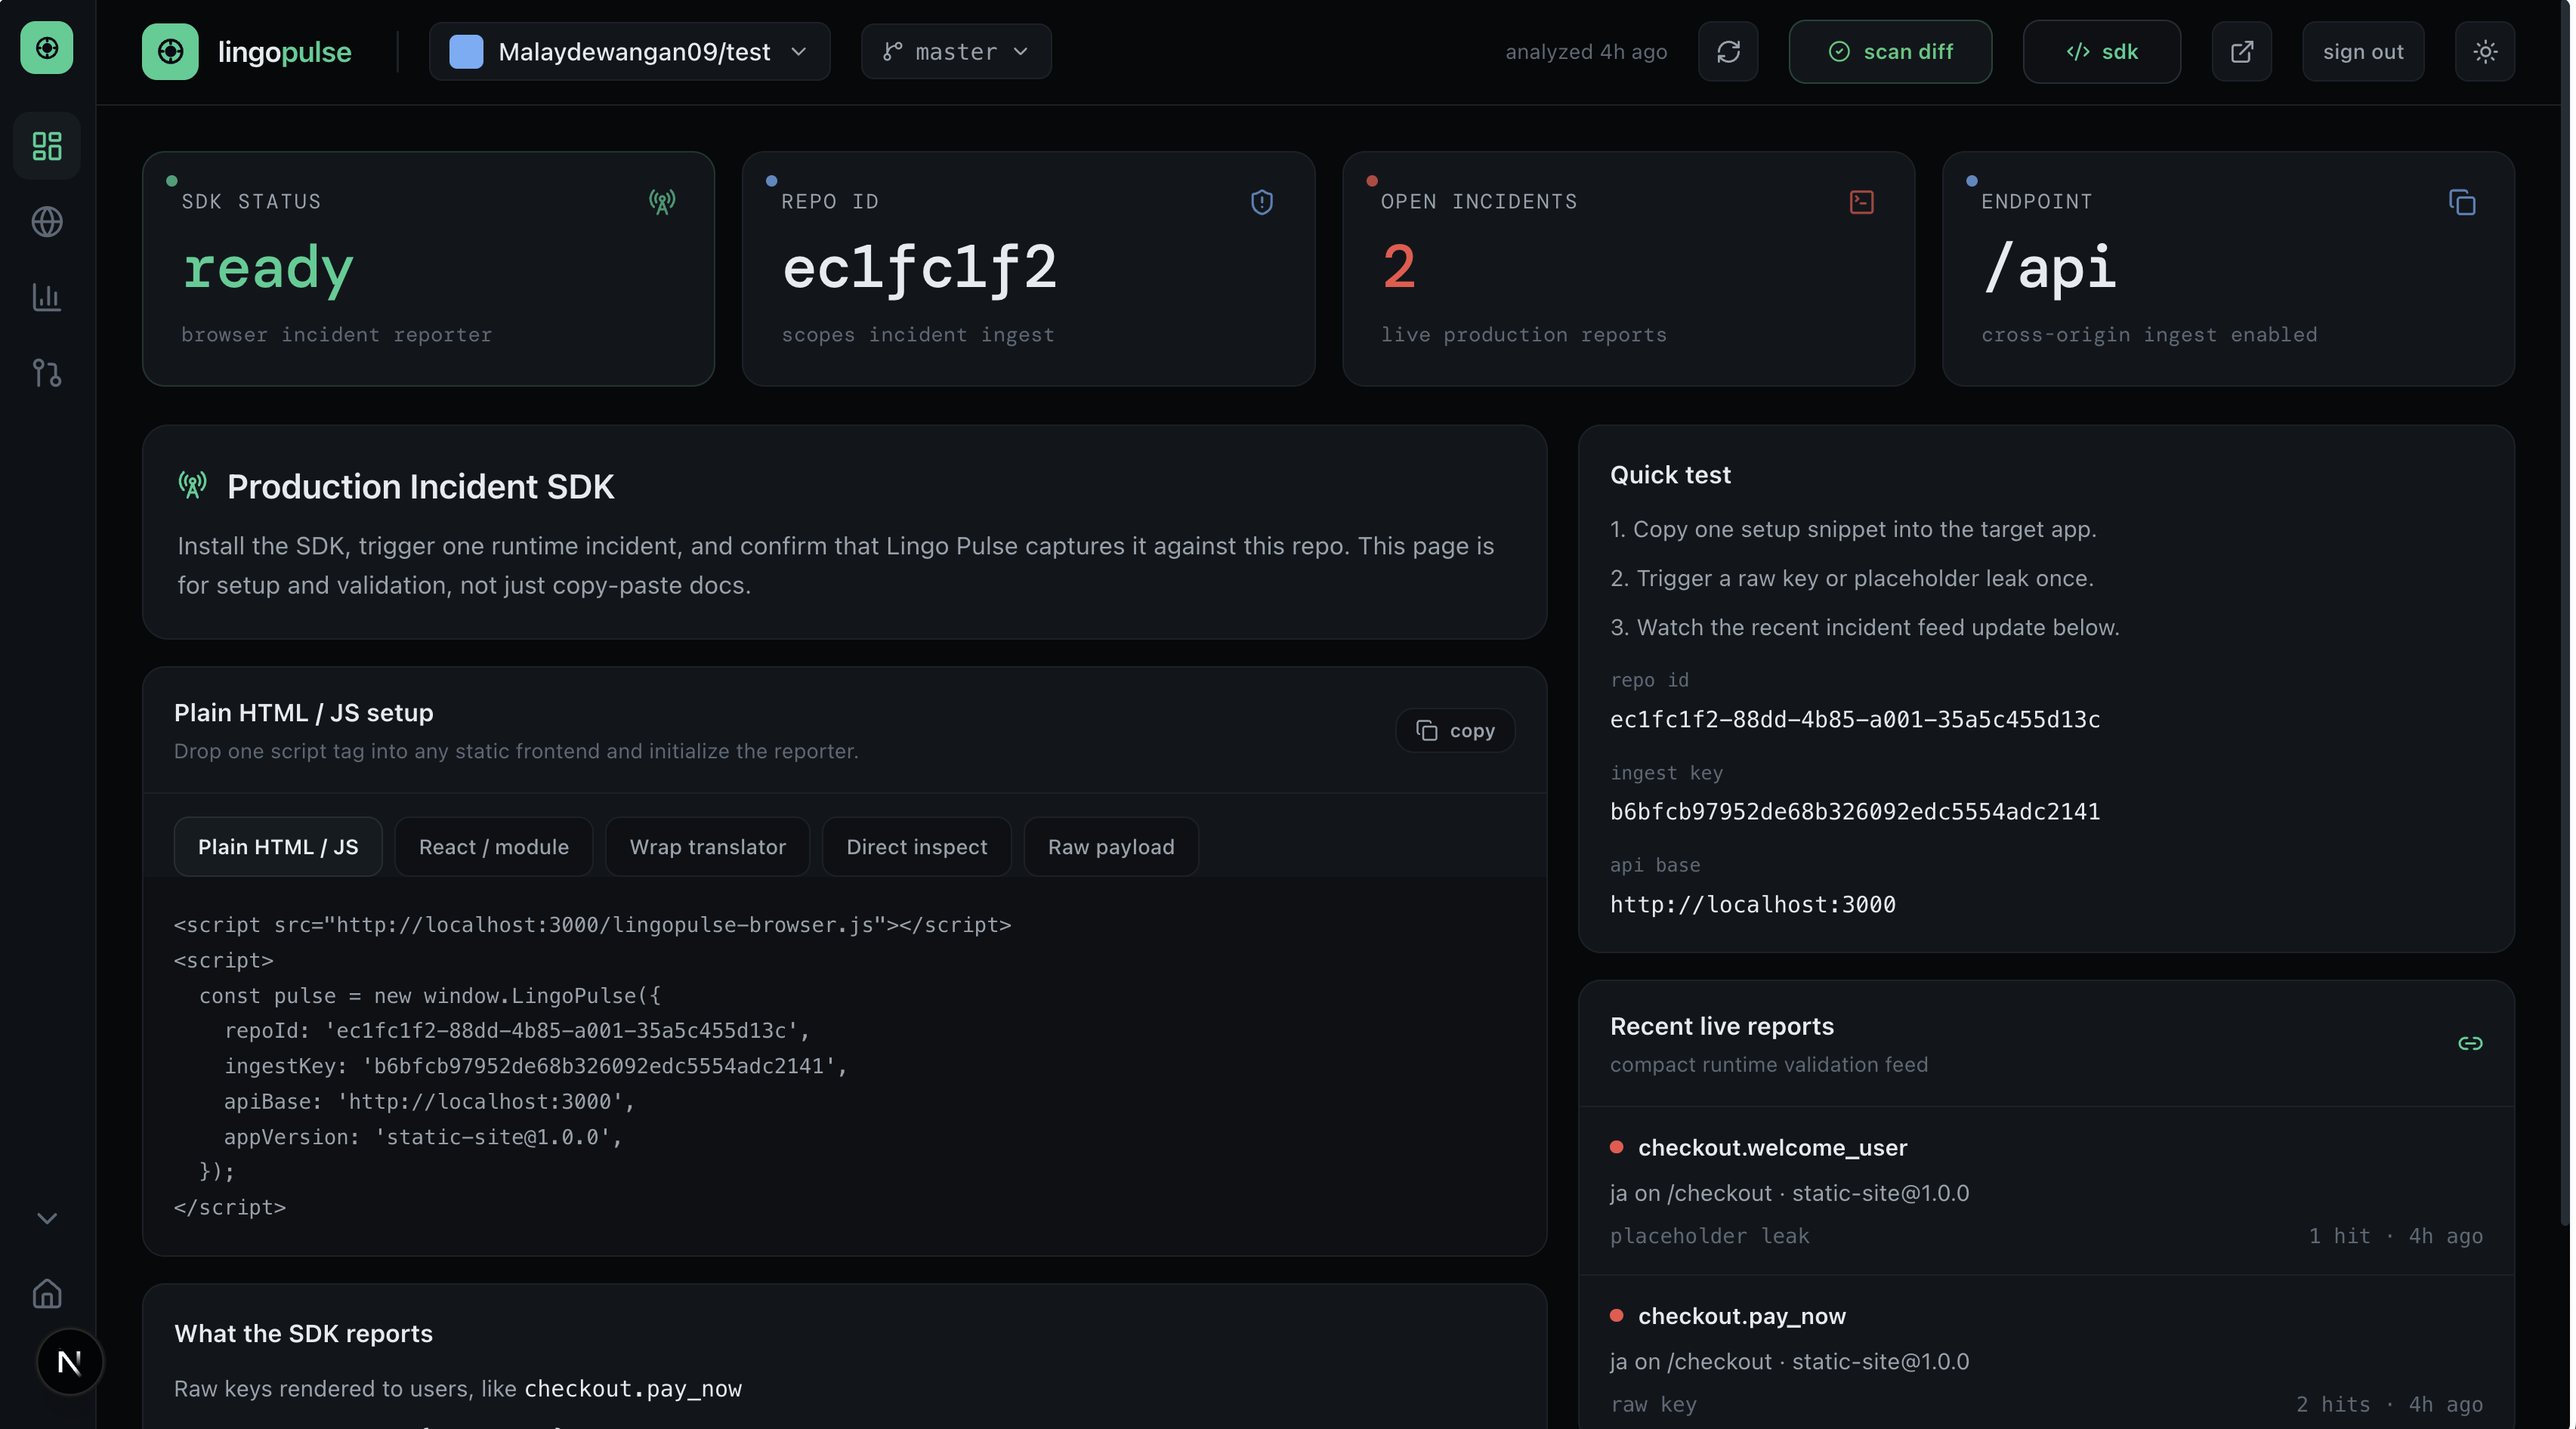
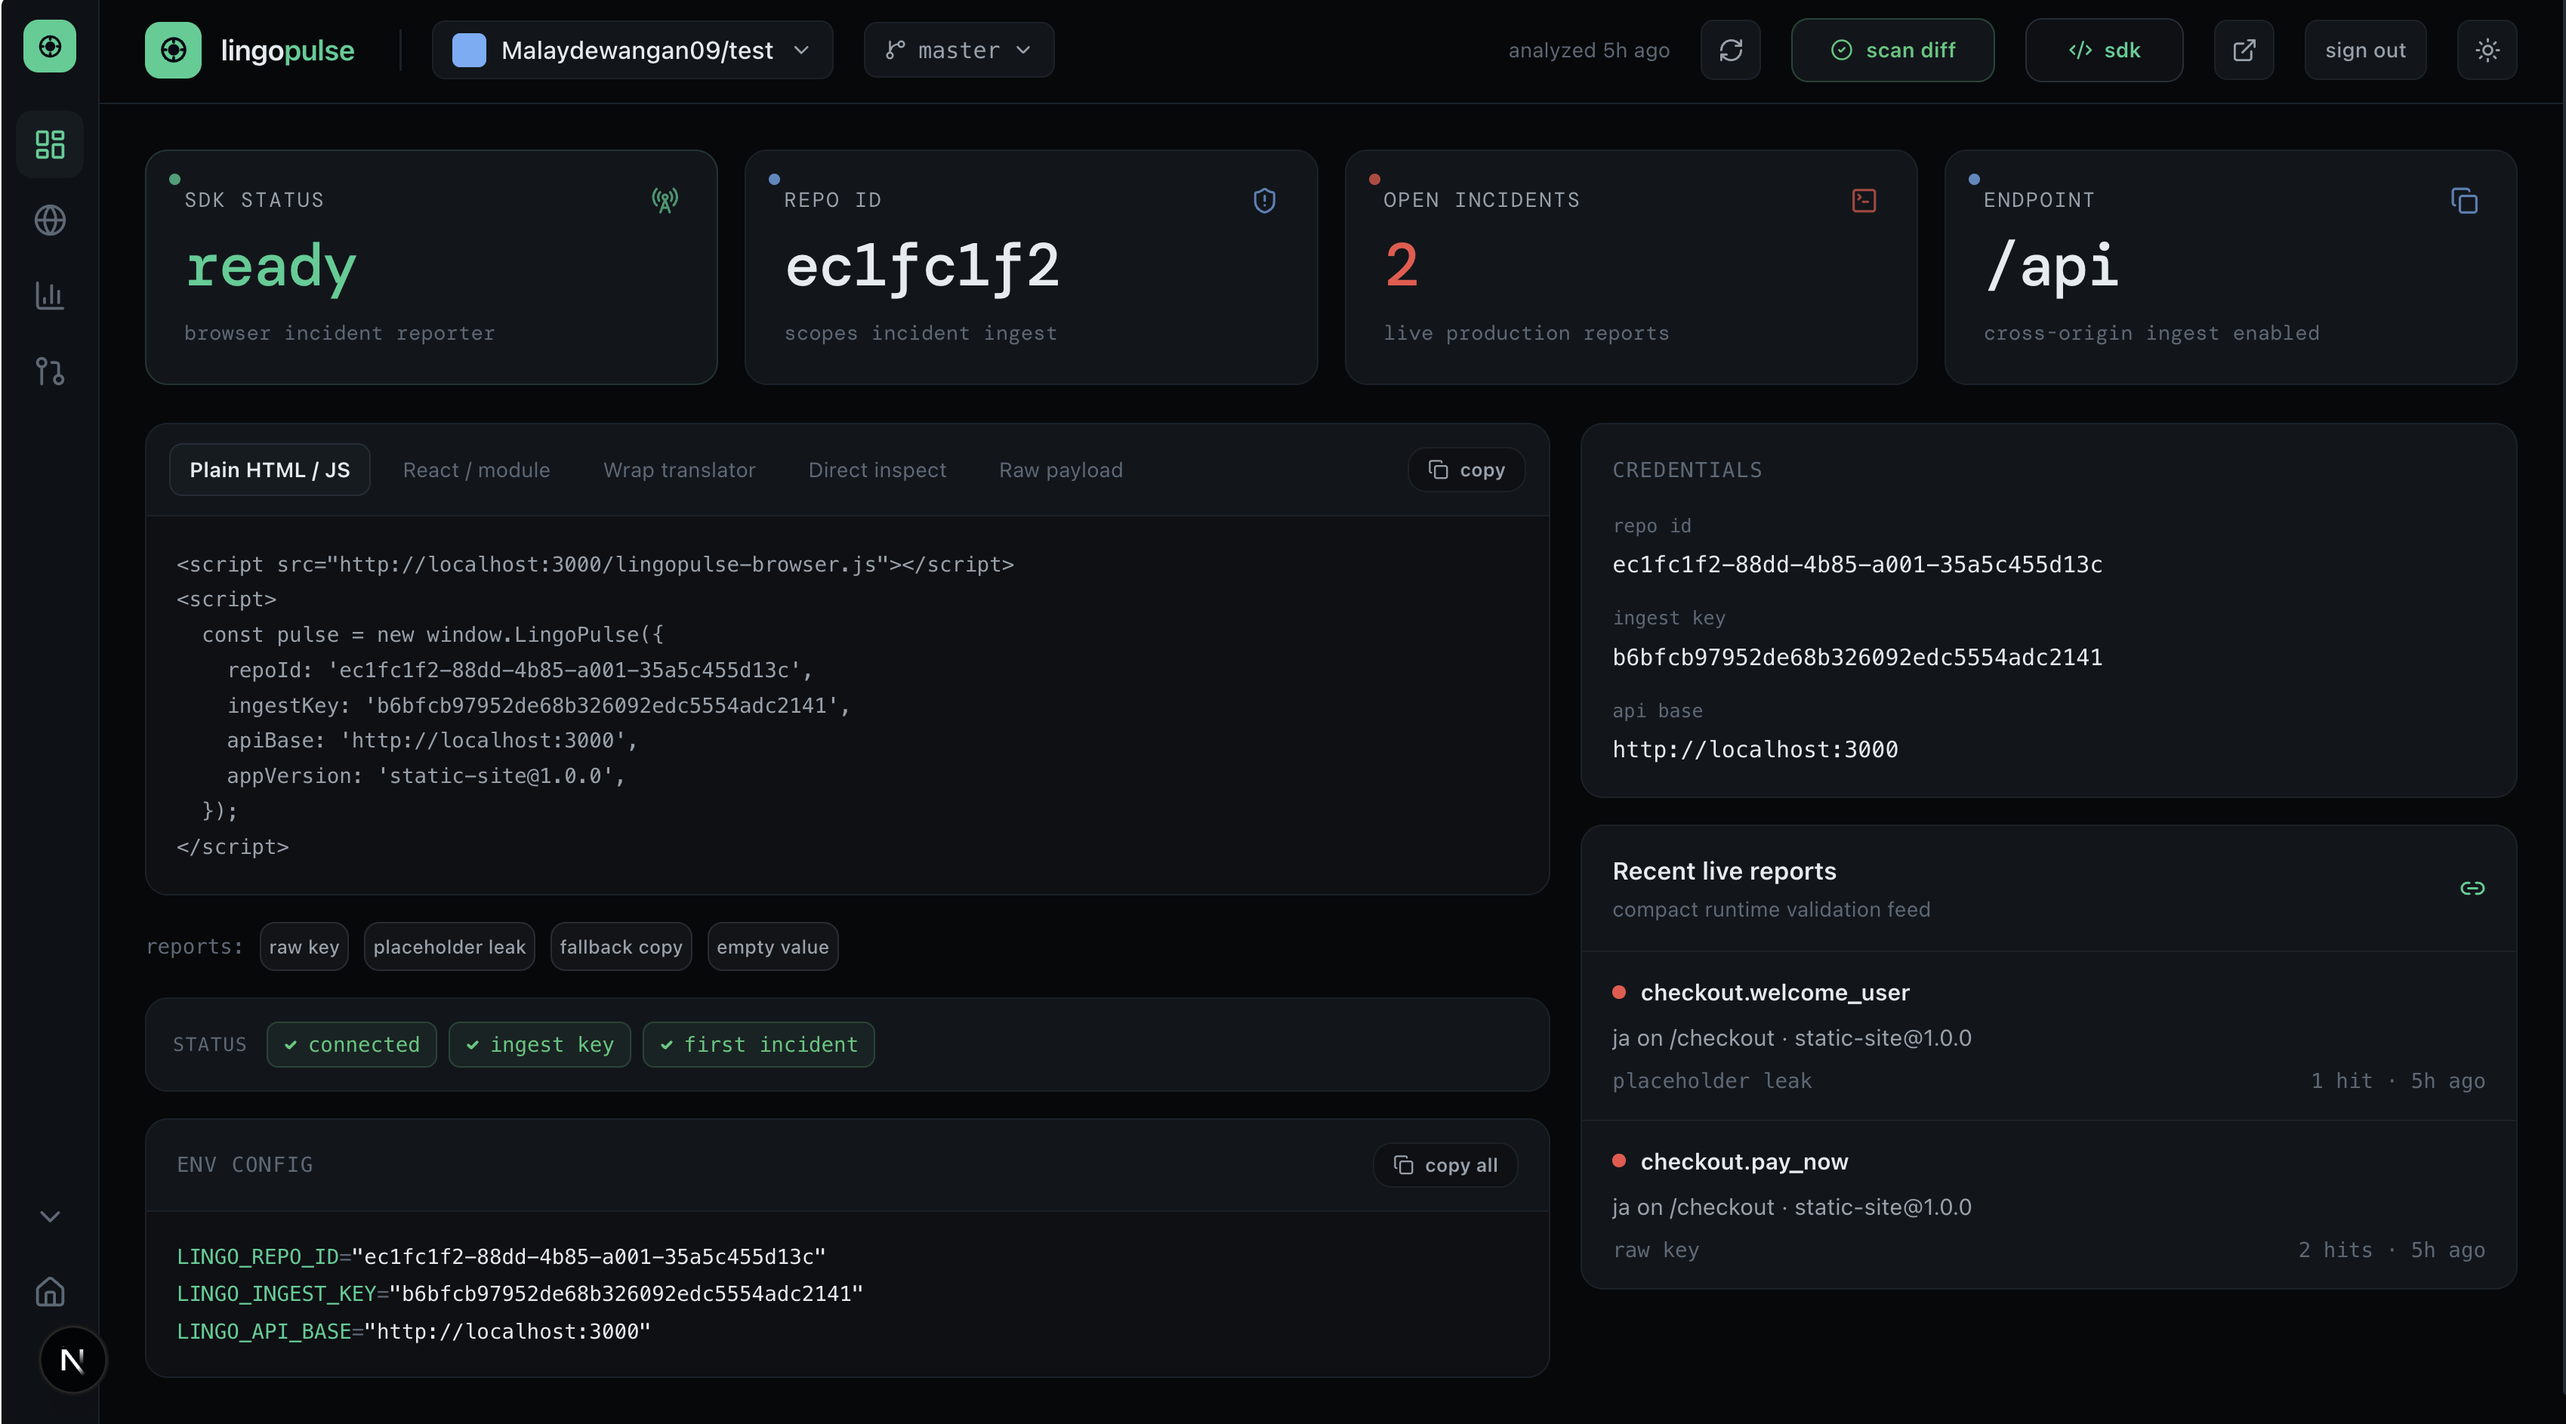
feat: improve dashboard and SDK

diff --git a/src/app/landing/page.tsx b/src/app/landing/page.tsx
@@ -436,6 +436,13 @@ export default function LandingPage() {
   const router = useRouter();
   const dark = useIsDark();
   const heroGlowRef = useRef<HTMLDivElement>(null);
+  const [ctaLoading, setCtaLoading] = useState(false);
+
+  const goToAuth = () => {
+    if (ctaLoading) return;
+    setCtaLoading(true);
+    router.push('/auth');
+  };
 
   return (
     <div style={{
@@ -471,18 +478,28 @@ export default function LandingPage() {
         <div style={{ display: 'flex', alignItems: 'center', gap: 10 }}>
           <ThemeToggle />
           <button
-            onClick={() => router.push('/auth')}
+            onClick={goToAuth}
+            disabled={ctaLoading}
             style={{
               height: 40, padding: '0 20px', borderRadius: 10,
               background: 'var(--accent-button)', border: '1px solid rgba(255,255,255,0.04)',
-              color: 'var(--accent-button-text)', fontSize: 13, fontWeight: 700, cursor: 'pointer',
+              color: 'var(--accent-button-text)', fontSize: 13, fontWeight: 700,
+              cursor: ctaLoading ? 'default' : 'pointer',
               fontFamily: 'var(--font-sans)',
-              transition: 'transform 0.15s, box-shadow 0.15s',
+              display: 'flex', alignItems: 'center', gap: 7,
+              opacity: ctaLoading ? 0.75 : 1,
+              transition: 'transform 0.15s, box-shadow 0.15s, opacity 0.15s',
               boxShadow: '0 1px 0 rgba(255,255,255,0.12) inset',
             }}
             onMouseEnter={e => { e.currentTarget.style.transform = 'translateY(-1px)'; e.currentTarget.style.boxShadow = '0 1px 0 rgba(255,255,255,0.12) inset, 0 10px 24px rgba(0,0,0,0.18)'; }}
             onMouseLeave={e => { e.currentTarget.style.transform = 'translateY(0)'; e.currentTarget.style.boxShadow = '0 1px 0 rgba(255,255,255,0.12) inset'; }}
           >
+            {ctaLoading && (
+              <svg width="13" height="13" viewBox="0 0 14 14" style={{ animation: 'spin 0.7s linear infinite', flexShrink: 0 }}>
+                <circle cx="7" cy="7" r="5.5" fill="none" stroke="currentColor" strokeWidth="1.5" strokeOpacity="0.3"/>
+                <path d="M7 1.5a5.5 5.5 0 0 1 5.5 5.5" fill="none" stroke="currentColor" strokeWidth="1.5" strokeLinecap="round"/>
+              </svg>
+            )}
             Start monitoring
           </button>
         </div>
@@ -558,22 +575,32 @@ export default function LandingPage() {
           marginBottom: 72, animationDelay: '0.24s',
         }}>
           <button
-            onClick={() => router.push('/auth')}
+            onClick={goToAuth}
+            disabled={ctaLoading}
             style={{
               padding: '14px 32px', borderRadius: 10,
               background: 'var(--accent-button)', border: '1px solid rgba(255,255,255,0.04)',
-              color: 'var(--accent-button-text)', fontSize: 15, fontWeight: 700, cursor: 'pointer',
+              color: 'var(--accent-button-text)', fontSize: 15, fontWeight: 700,
+              cursor: ctaLoading ? 'default' : 'pointer',
               fontFamily: 'var(--font-sans)',
               boxShadow: '0 1px 0 rgba(255,255,255,0.12) inset',
-              transition: 'transform 0.15s, box-shadow 0.15s',
+              transition: 'transform 0.15s, box-shadow 0.15s, opacity 0.15s',
+              opacity: ctaLoading ? 0.75 : 1,
+              display: 'flex', alignItems: 'center', gap: 8,
             }}
-            onMouseEnter={e => { e.currentTarget.style.transform = 'translateY(-2px)'; e.currentTarget.style.boxShadow = '0 1px 0 rgba(255,255,255,0.12) inset, 0 12px 28px rgba(0,0,0,0.2)'; }}
+            onMouseEnter={e => { if (!ctaLoading) { e.currentTarget.style.transform = 'translateY(-2px)'; e.currentTarget.style.boxShadow = '0 1px 0 rgba(255,255,255,0.12) inset, 0 12px 28px rgba(0,0,0,0.2)'; }}}
             onMouseLeave={e => { e.currentTarget.style.transform = 'translateY(0)'; e.currentTarget.style.boxShadow = '0 1px 0 rgba(255,255,255,0.12) inset'; }}
           >
+            {ctaLoading && (
+              <svg width="14" height="14" viewBox="0 0 14 14" style={{ animation: 'spin 0.7s linear infinite', flexShrink: 0 }}>
+                <circle cx="7" cy="7" r="5.5" fill="none" stroke="currentColor" strokeWidth="1.5" strokeOpacity="0.3"/>
+                <path d="M7 1.5a5.5 5.5 0 0 1 5.5 5.5" fill="none" stroke="currentColor" strokeWidth="1.5" strokeLinecap="round"/>
+              </svg>
+            )}
             Connect repository
           </button>
           <button
-            onClick={() => router.push('/')}
+            onClick={() => router.push('/connect')}
             style={{
               padding: '14px 28px', borderRadius: 10,
               background: 'rgba(255,255,255,0.04)', border: '1px solid var(--border-bright)',
@@ -1238,7 +1265,7 @@ export default function LandingPage() {
           <RevealSection delay="0.3s">
             <div style={{ textAlign: 'center', marginTop: 60 }}>
               <button
-                onClick={() => router.push('/auth')}
+                onClick={goToAuth}
                 style={{
                   padding: '14px 40px', borderRadius: 10,
                   background: 'var(--accent-button)', border: '1px solid rgba(255,255,255,0.04)',
@@ -1277,7 +1304,7 @@ export default function LandingPage() {
             </p>
             <div style={{ display: 'flex', gap: 12, justifyContent: 'center', flexWrap: 'wrap' }}>
               <button
-                onClick={() => router.push('/auth')}
+                onClick={goToAuth}
                 style={{
                   padding: '13px 32px', borderRadius: 10,
                   background: 'var(--accent-button)', border: '1px solid rgba(255,255,255,0.04)',
@@ -1292,7 +1319,7 @@ export default function LandingPage() {
                 Connect repository
               </button>
               <button
-                onClick={() => router.push('/')}
+                onClick={() => router.push('/connect')}
                 style={{
                   padding: '13px 28px', borderRadius: 10,
                   background: 'transparent', border: '1px solid var(--border-bright)',

diff --git a/src/app/repo/[id]/sdk/page.tsx b/src/app/repo/[id]/sdk/page.tsx
@@ -374,7 +374,6 @@ const label = t('checkout.pay_now');`;
                   <span style={{ fontSize: 10, color: 'var(--text-3)', fontFamily: 'var(--font-mono)', letterSpacing: '0.06em', textTransform: 'uppercase', marginRight: 4 }}>status</span>
                   {([
                     { label: 'connected', done: true },
-                    { label: 'webhook', done: !!data.repo.webhook_id, localOnly: !data.repo.webhook_id && origin.includes('localhost') },
                     { label: 'ingest key', done: !!data.repo.public_ingest_key },
                     { label: 'first incident', done: data.incidents.length > 0 },
                   ] as { label: string; done: boolean; localOnly?: boolean }[]).map(step => (
@@ -390,7 +389,7 @@ const label = t('checkout.pay_now');`;
                         ? <svg width="8" height="8" viewBox="0 0 10 10"><path d="M2 5.5l2 2 4-4" stroke="currentColor" strokeWidth="1.8" fill="none" strokeLinecap="round" strokeLinejoin="round"/></svg>
                         : <div style={{ width: 5, height: 5, borderRadius: '50%', background: step.localOnly ? 'var(--warning)' : 'var(--border-bright)', flexShrink: 0 }} />
                       }
-                      {step.localOnly ? 'webhook (needs deploy)' : step.label}
+                      {step.label}
                     </span>
                   ))}
                 </div>

diff --git a/src/app/page.tsx b/src/app/page.tsx
@@ -10,16 +10,20 @@ export default async function Home() {
     return <LandingPage />;
   }
 
-  const db = supabaseAdmin();
-  const { data: repos } = await db
-    .from('repos')
-    .select('id')
-    .eq('owner_user_id', user.id)
-    .order('created_at', { ascending: false })
-    .limit(1);
+  try {
+    const db = supabaseAdmin();
+    const { data: repos } = await db
+      .from('repos')
+      .select('id')
+      .eq('owner_user_id', user.id)
+      .order('created_at', { ascending: false })
+      .limit(1);
 
-  if (repos && repos.length > 0) {
-    redirect(`/repo/${repos[0].id}`);
+    if (repos && repos.length > 0) {
+      redirect(`/repo/${repos[0].id}`);
+    }
+  } catch {
+    // Supabase not configured — fall through to connect
   }
 
   redirect('/connect');

diff --git a/src/lib/auth.ts b/src/lib/auth.ts
@@ -2,8 +2,12 @@ import type { User } from '@supabase/supabase-js';
 import { createServerSupabaseClient } from '@/lib/supabase-server';
 
 export async function getAuthenticatedUser(): Promise<User | null> {
-  const supabase = await createServerSupabaseClient();
-  const { data, error } = await supabase.auth.getUser();
-  if (error) return null;
-  return data.user ?? null;
+  try {
+    const supabase = await createServerSupabaseClient();
+    const { data, error } = await supabase.auth.getUser();
+    if (error) return null;
+    return data.user ?? null;
+  } catch {
+    return null;
+  }
 }
